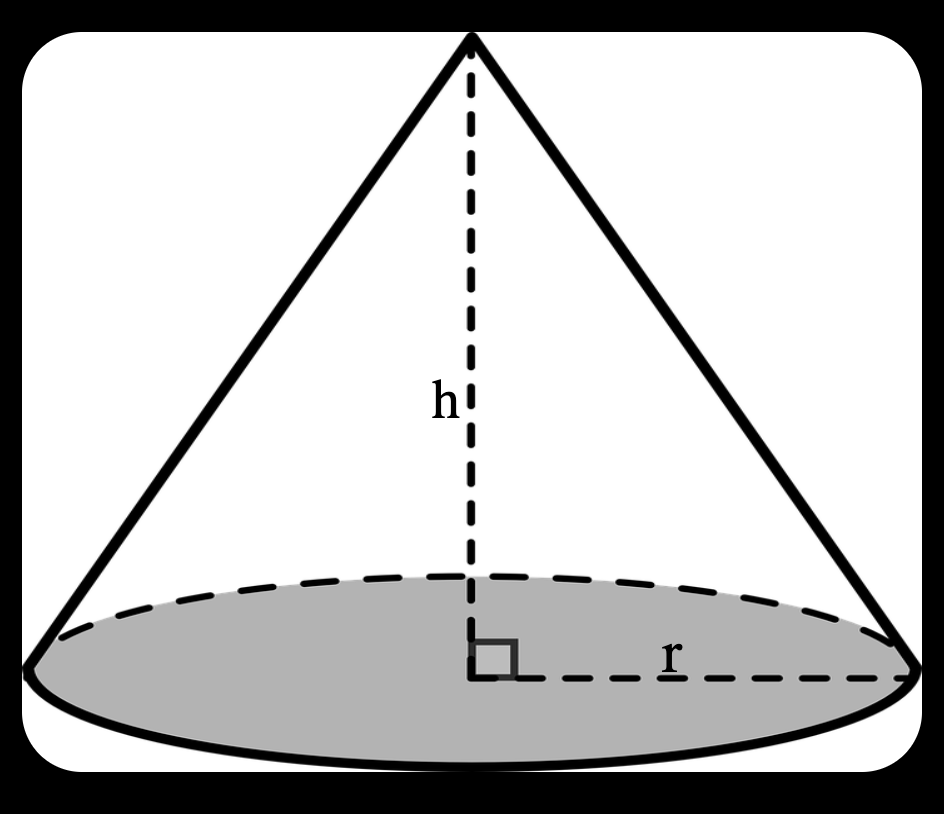
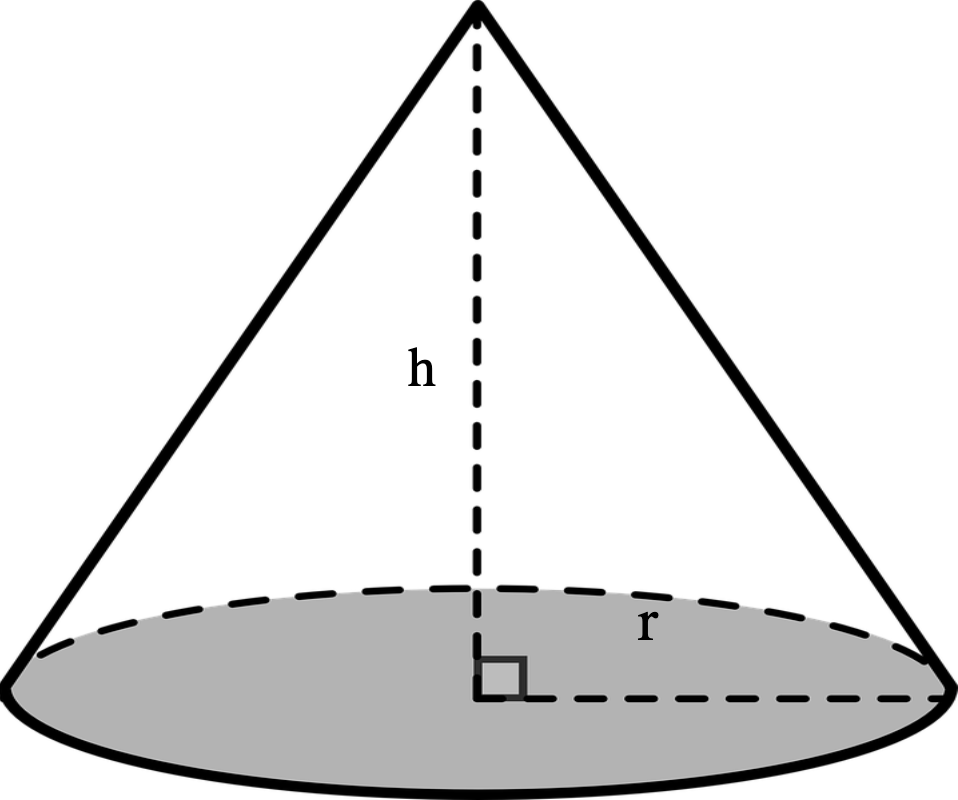
Agregando la imagen de un cono

Changed region(s): [[0.0, 0.0, 1.0, 1.0]]

diff --git a/static/html/conoCircularRecto.html b/static/html/conoCircularRecto.html
@@ -15,9 +15,8 @@
             position: absolute;
             left: 380px;
             top: 30px;
-            border-radius: 30px;
-            width: 450px;
-            height: 370px;
+            width: 480px;
+            height: 400px;
             background-color:white;
         }
 

diff --git a/server.py b/server.py
@@ -561,7 +561,7 @@ def right_circular_cone_volume(r,h):
 
 <body>
     <div class="container">
-        <img src="https://raw.githubusercontent.com/RodrigoSebasT/API-ICC/main/static/images/Copia%20de%20cono.png" alt="">
+        <img src="https://github.com/RodrigoSebasT/API-ICC/blob/main/static/images/Copia_cono.png" alt="">
         <p class="title">"""+"""r = {}<br>h = {}<br><br>Donde:<br>r: radio del cono circular recto<br>h: altura del cono circular recto<br><br>El volumen del cono circular recto es: {}</p>""".format(int(r),int(h),volumen)+"""</div>
 </body>
 </html>"""
